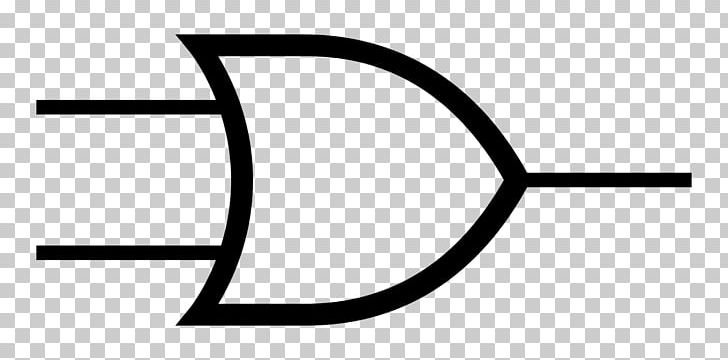
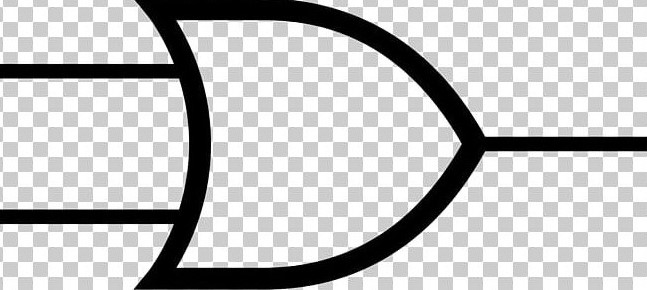
Logic gate images next to selection

diff --git a/Main.html b/Main.html
@@ -9,24 +9,27 @@
 <body>
 
 <h1>Logic Gate Calculator</h1>
-
-    <form style="display: inline">
-        <h2>Logic Gate:</h2>
+<h2>Logic Gate:</h2>
+<div style="display: inline-block">
+    <form>
         <input type="radio" id="r1" value="ANDGate" name="gate" onchange="showGateImage(this.value, 'r1label')"> <label for="r1" id="r1label">AND Gate </label> <br>
         <input type="radio" id="r2" value="ORGate" name="gate" onchange="showGateImage(this.value, 'r2label')"> <label for="r2" id="r2label">OR Gate </label> <br>
         <input type="radio" id="r3" value="NOTGate" name="gate" onchange="showGateImage(this.value, 'r3label')"> <label for="r3" id="r3label">NOT Gate </label> <br>
         <input type="radio" id="r4" value="NANDGate" name="gate" onchange="showGateImage(this.value, 'r4label')"> <label for="r4" id="r4label">NAND Gate </label> <br>
         <input type="radio" id="r5" value="NORGate" name="gate" onchange="showGateImage(this.value, 'r5label')"> <label for="r5" id="r5label">NOR Gate </label> <br>
-        <input type="radio" id="r6" value="XORGate" name="gate" onchange="showGateImage(this.value, 'r6label')"> <label for="r6" id="r6label">XOR Gate </label> <br>
+        <input type="radio" id="r6" value="XORGate" name="gate" onchange="showGateImage(this.value, 'r6label')"> <label for="r6" id="r6label">XOR Gate </label>
     </form>
-
+</div>
+<div style="display: inline-block">
 <img class="images" id="ANDGate" src="ANDGate.png" alt="AND Gate" style="display: none">
-<img class="images" id="ORGate" src="ORGate2.png" alt="AND Gate" style="display: none">
+<img class="images" id="ORGate" src="ORGate3.png" alt="AND Gate" style="display: none">
 <img class="images" id="NOTGate" src="NOTGate.png" alt="AND Gate" style="display: none">
 <img class="images" id="NANDGate" src="NANDGate.png" alt="AND Gate" style="display: none">
 <img class="images" id="NORGate" src="NORGate.png" alt="AND Gate" style="display: none">
 <img class="images" id="XORGate" src="XORGate.png" alt="AND Gate" style="display: none">
-
+</div>
+<br>
+<div style="display: inline-block">
 <label for="inputA">Input A:</label>
 <select name="dropDown" id="inputA">
     <option value="0">0</option>
@@ -57,5 +60,6 @@
         <td></td>
     </tr>
 </table>
+</div>
 </body>
 </html>

diff --git a/Script.js b/Script.js
@@ -21,7 +21,7 @@ function resetLabels() {
 function showGateImage(gate, label){
     resetImages();
     resetLabels();
-    document.getElementById(gate).style.display = "block";
+    document.getElementById(gate).style.display = "inline";
     document.getElementById(label).style.color = "red";
     if(gate==="NOTGate"){
         document.getElementById("inputB").style.display = "none";

diff --git a/Style.css b/Style.css
@@ -1,7 +1,15 @@
 .images{
-    width: 50%;
+    height: 100px;
+    width: 150px;
+    border: thick solid red;
 }
 
+body{
+    background-color: aquamarine;
+}
+input{
+    display: inline;
+}
 table, th, td{
     border: 1px solid black;
     border-collapse: collapse;
